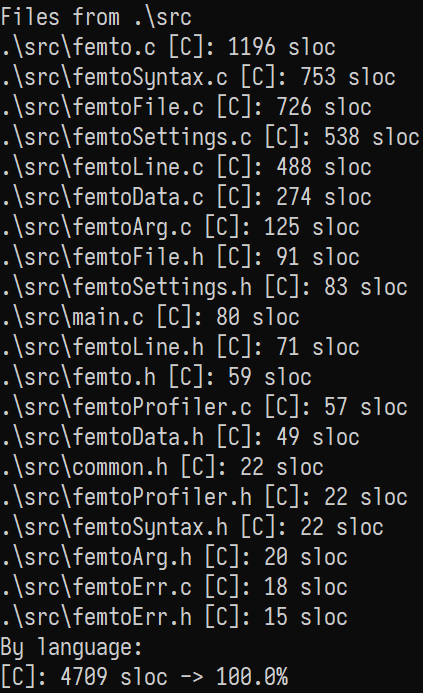
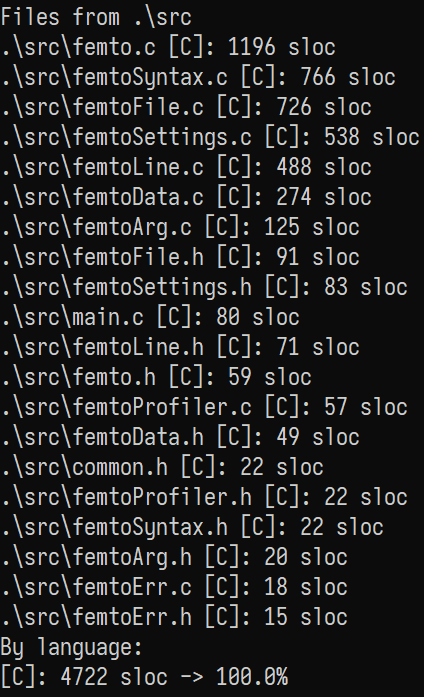
Update info

diff --git a/README.md b/README.md
@@ -13,7 +13,7 @@ It is also written in vanilla C & Win32 Console API - it's designed to be used s
 It has been compiled with MinGW GCC.
 
 Currently, my other tool [slocWin32](https://github.com/makuke1234/slocWin32)
-reports ~4500 source code lines (excluding whitespace, comments & [jsonlite2](https://github.com/makuke1234/jsonlite2) library):
+reports ~4700 source code lines (excluding whitespace, comments & [jsonlite2](https://github.com/makuke1234/jsonlite2) library):
 
 ![SLOC](./images/sloc.png)
 
@@ -126,16 +126,21 @@ reports ~4500 source code lines (excluding whitespace, comments & [jsonlite2](ht
 	| --lineNumColor=\[value\]      | Specifies line number color, number between 0-255   |
 	| --lineNumCol=\[value\]        | Same as above                                       |
 - [x] List of settings:
-	| Setting           | Type    |
-	| ----------------- | ------- |
-	| tabsToSpaces      | boolean |
-	| tabWidth          | number  |
-	| autoIndent        | boolean |
-	| whitespaceVisible | boolean |
-	| whitespaceCh      | string  |
-	| whitespaceColor   | number  |
-	| lineNumRelative   | boolean |
-	| lineNumColor      | number  |
+	| Setting             | Type    |
+	| ------------------- | ------- |
+	| tabsToSpaces        | boolean |
+	| tabWidth            | number  |
+	| autoIndent          | boolean |
+	| whitespaceVisible   | boolean |
+	| whitespaceCh        | string  |
+	| whitespaceColor     | number  |
+	| lineNumRelative     | boolean |
+	| lineNumColor        | number  |
+	| palette             | object  |
+	| highlighting        | object  |
+
+Have a look at provided [settings file](./settings.json) to get a better understanding of the different settings.
+
 
 
 # Screenshots
